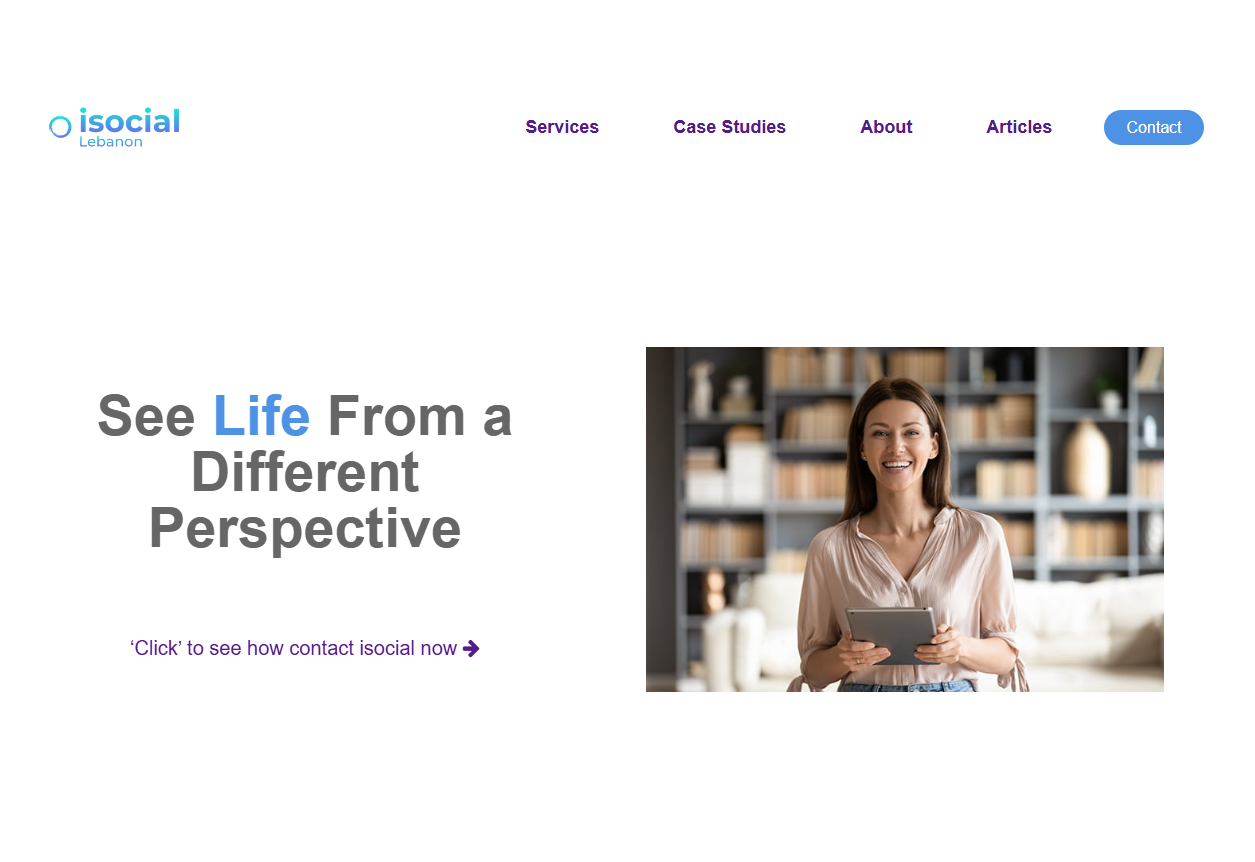
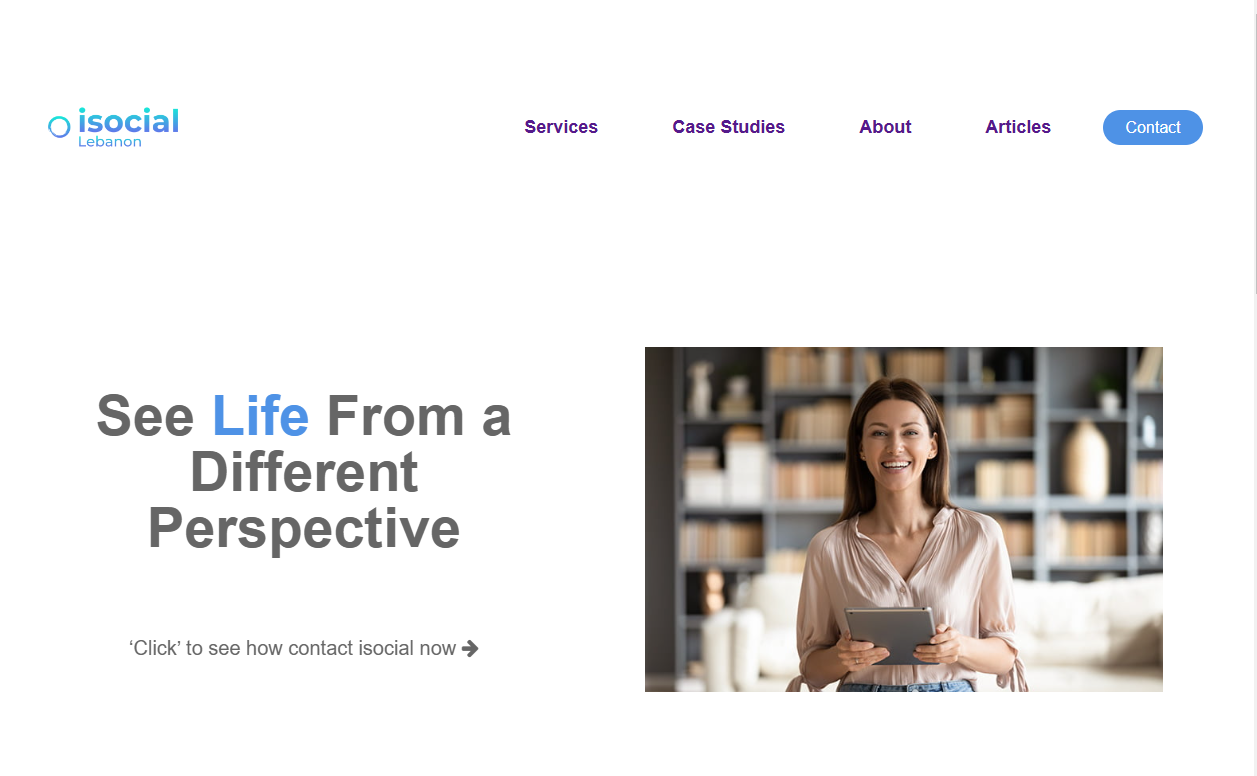
Fix link color on Intro Section

diff --git a/index.html b/index.html
@@ -108,8 +108,7 @@
             <h1 class="main-text" >
                 See <span class="title-color">Life</span> From a Different Perspective
             </h1>
-            <a href="#">
-                ‘Click’ to see how contact isocial now <i class="fa fa-arrow-right" aria-hidden="true"></i>
+            <a href="#" class="main-text" > ‘Click’ to see how contact isocial now <i class="fa fa-arrow-right" aria-hidden="true"></i>
             </a>
         </div>
         <div   data-aos-easing="linear" data-aos-duration="1000"  data-aos="flip-right"  class="intro-image flex flex-direction-column justify-content-center">
